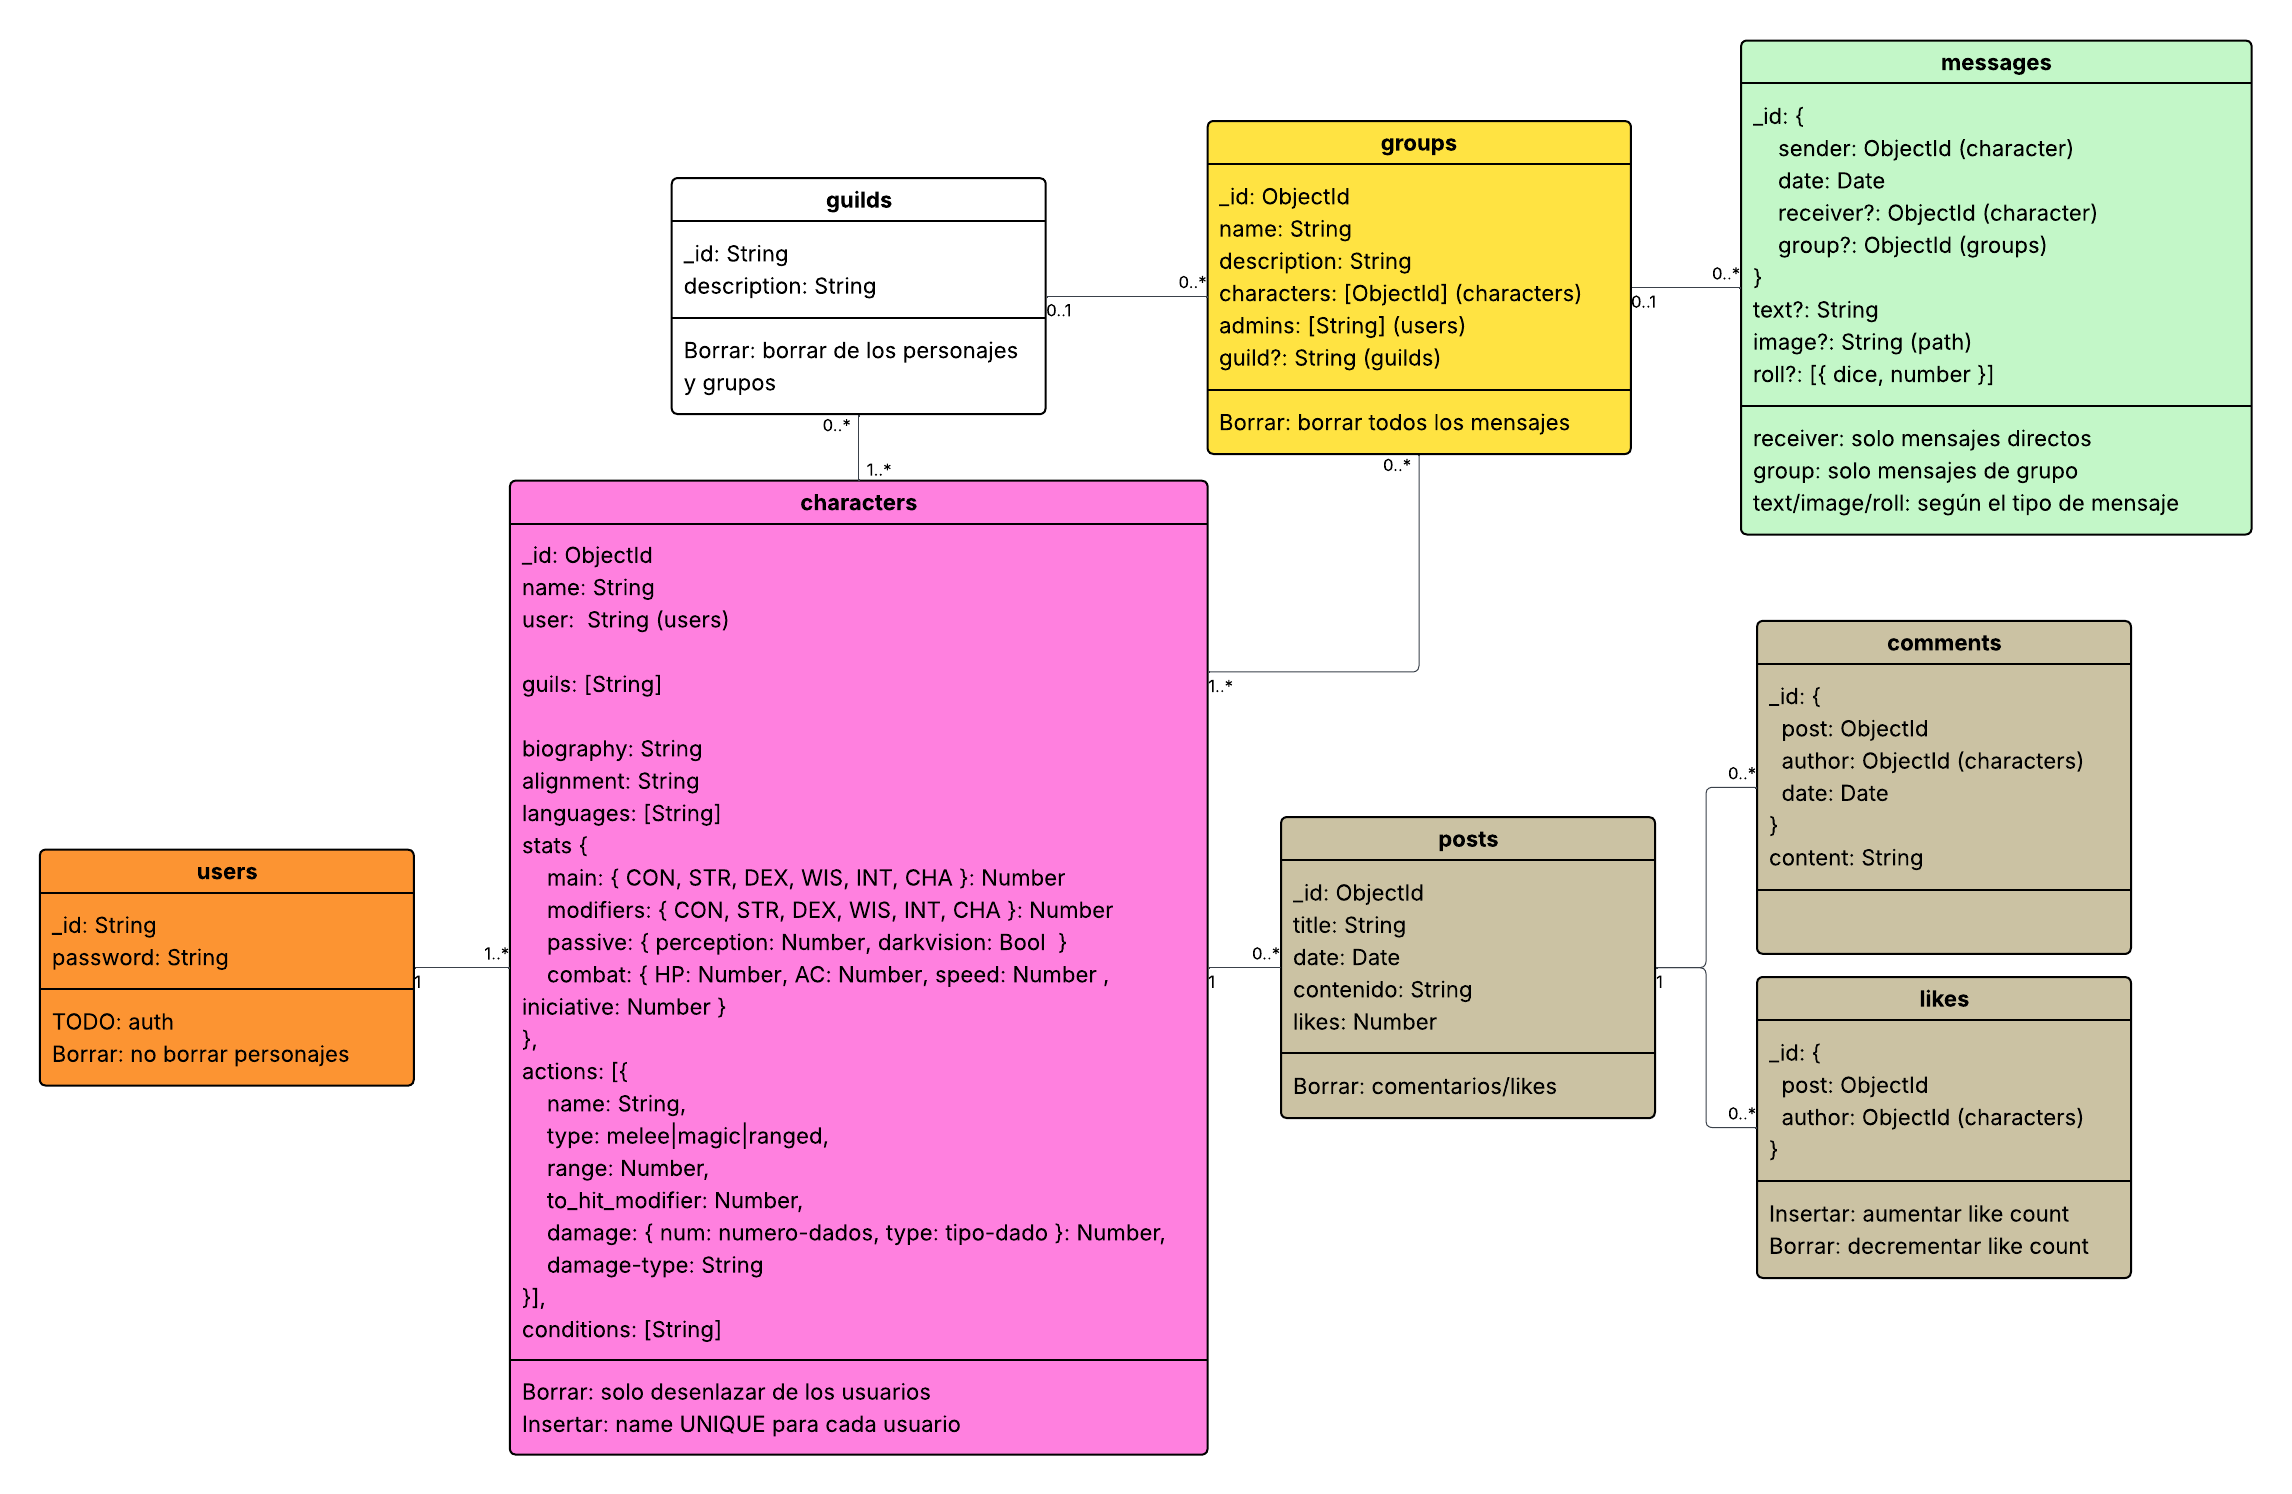
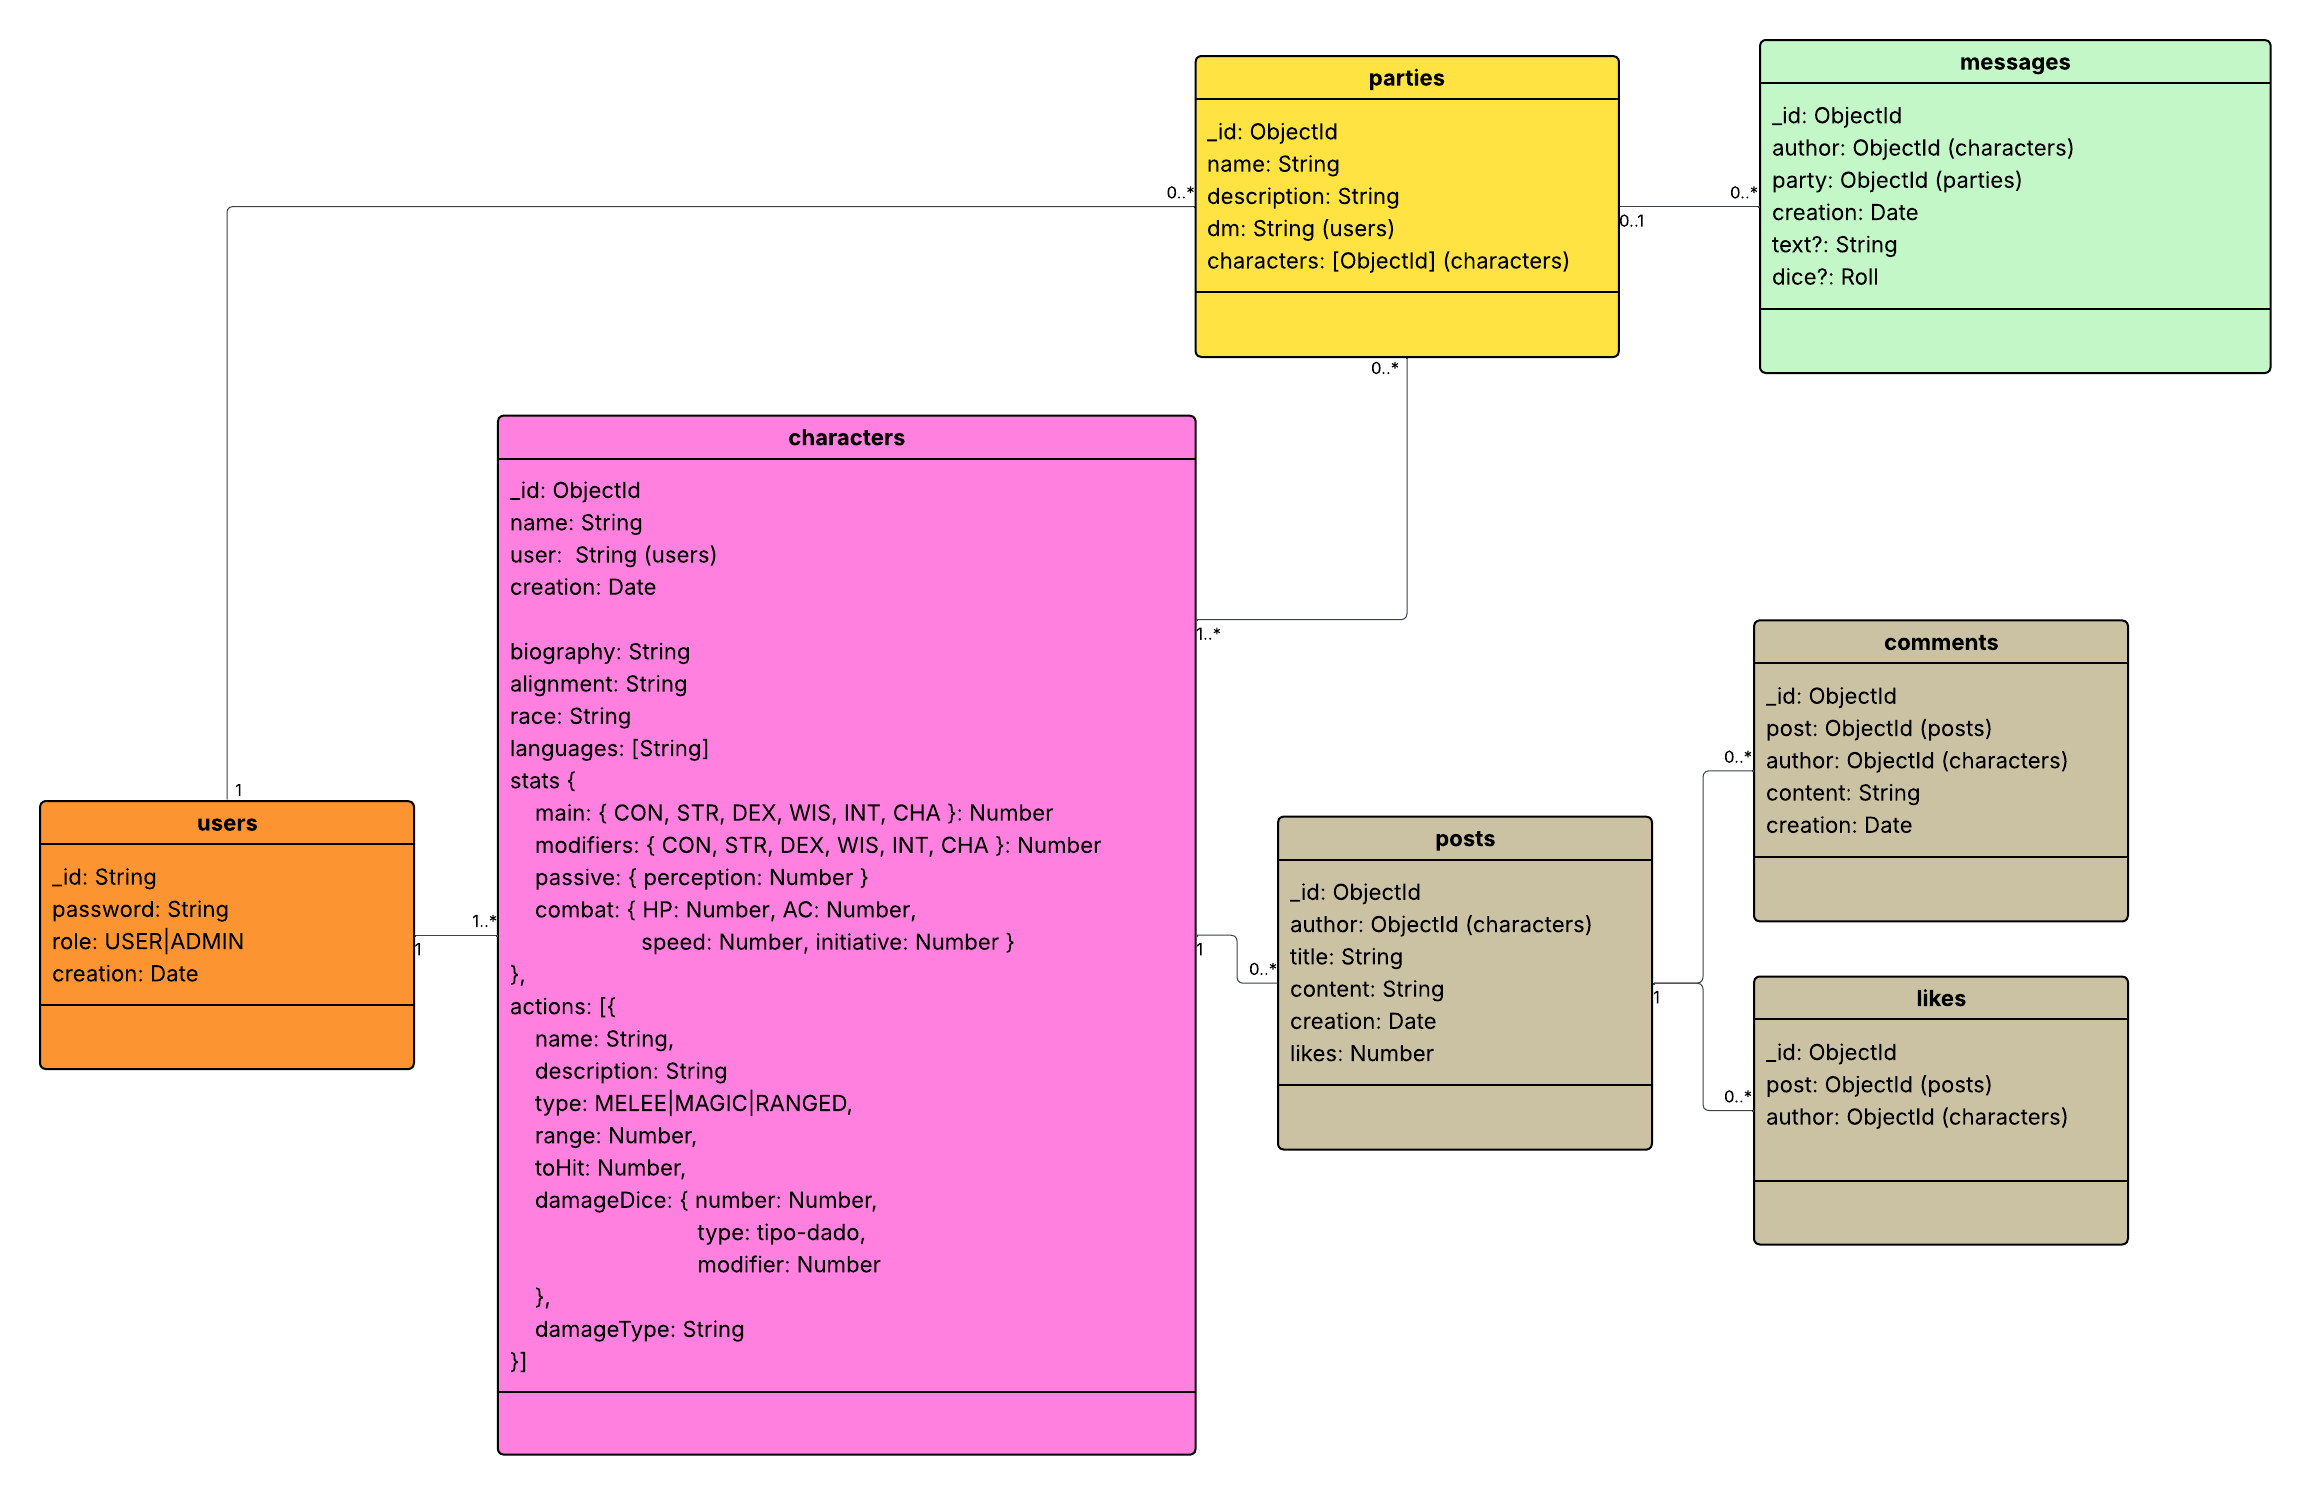
Actualiza diagrama de clases

diff --git a/src/tavernnet/controller/PartyController.java b/src/tavernnet/controller/PartyController.java
@@ -207,7 +207,7 @@ public class PartyController {
         ObjectId partyId,
 
         @Parameter(description = "The cursor from which next messages appear, expressed as a date",
-            example = "2025-12-17T02:42:00Z")
+            example = "2025-12-17T02:42.400Z")
         @RequestParam(value = "after", required = false, defaultValue = "")
         String after,
 
